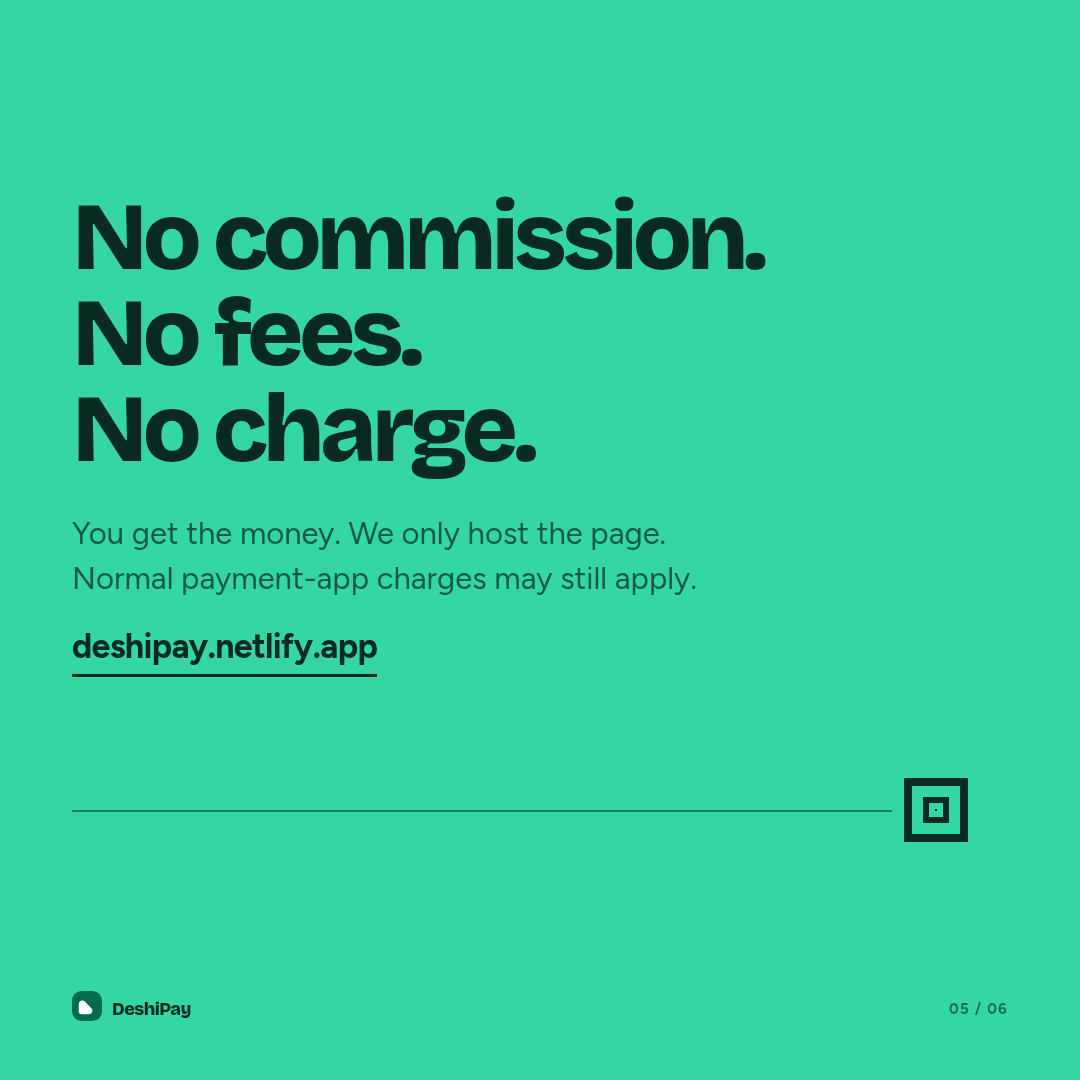
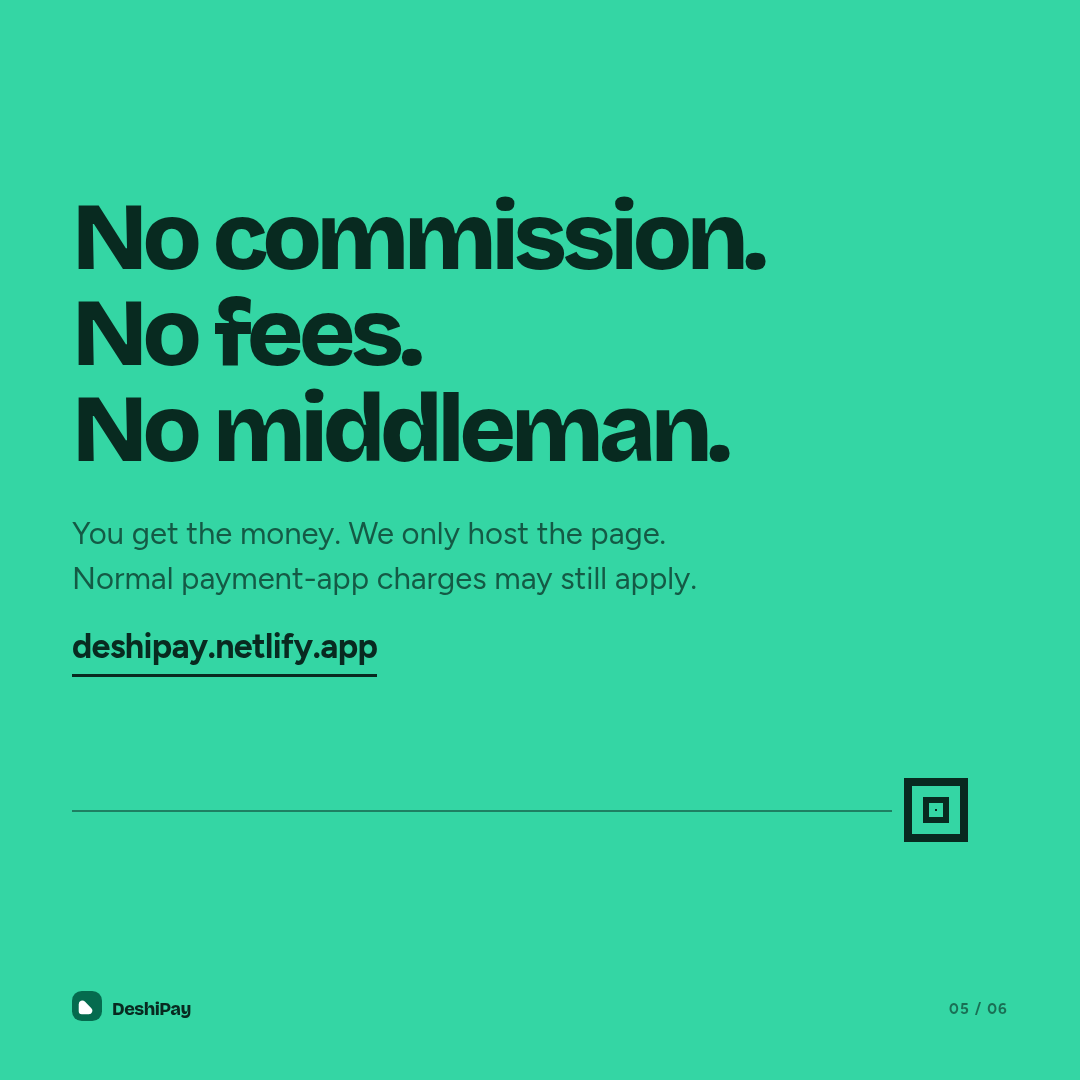
content(page5): replace no charge with no middleman

Changed region(s): [[0.1833, 0.3361, 0.6722, 0.4583]]

diff --git a/promotionals/social/source/social.html b/promotionals/social/source/social.html
@@ -179,7 +179,7 @@
   </section>
 
   <section class="slide bright" id="s5">
-    <h1 class="headline">No commission.<br>No fees.<br>No charge.</h1>
+    <h1 class="headline">No commission.<br>No fees.<br>No middleman.</h1>
     <p class="body">You get the money. We only host the page. Normal payment-app charges may still apply.</p>
     <a class="cta">deshipay.netlify.app</a>
     <div class="hairline"></div>
